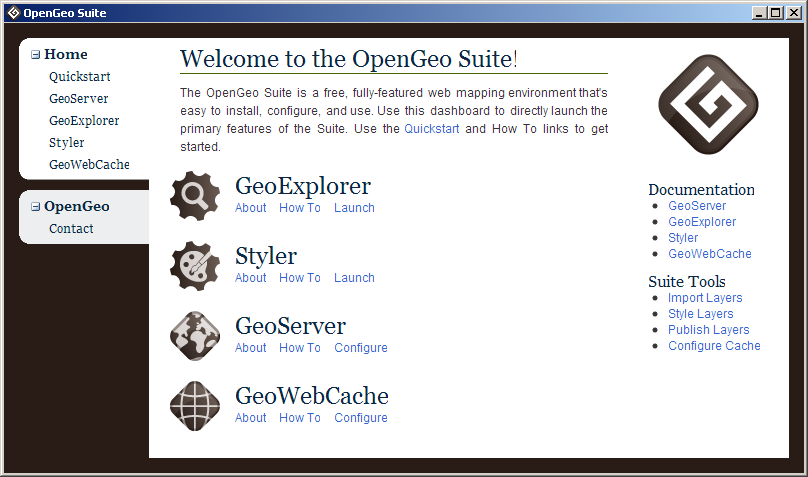
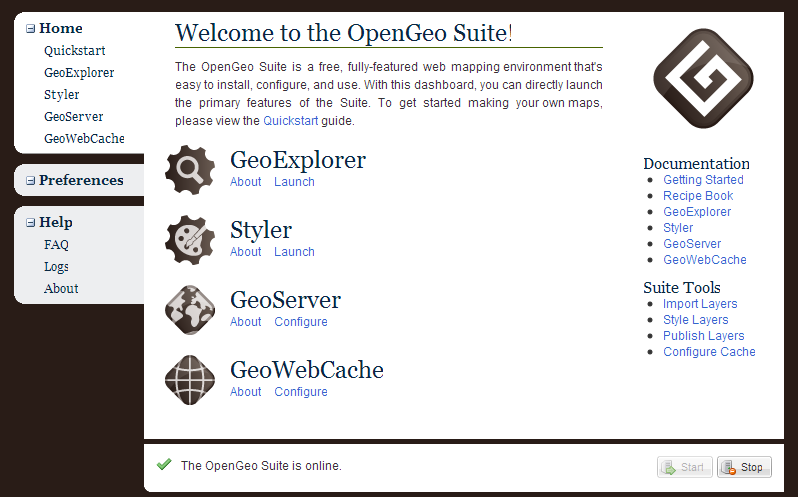
Update gettingstarted docs for 1.0!
git-svn-id: http://svn.opengeo.org/suite/trunk@795 fe66add1-021f-4af3-b75b-ea5154e73f91

diff --git a/docs/gettingstarted/source/workflow/import.rst b/docs/gettingstarted/source/workflow/import.rst
@@ -3,55 +3,82 @@
 Step 1: Import Your Data
 ========================
 
-The OpenGeo Suite comes with some data preloaded.  (See the section on :ref:`builtindemos` for more information.)  But to create *your* web map, you will need to first load your data into GeoServer.  GeoServer comes with a Data Importer application to make this process easy.
+The OpenGeo Suite comes with some data preloaded.  (See the section on :ref:`builtindemos` for more information.)  But to create *your* web map, you will need to first load your data into GeoServer.  GeoServer comes with a **Layer Importer** application to make this process easy.
+
+.. note:: The Layer Importer can import data from shapefiles, PostGIS databases, and ArcSDE/Oracle Spatial databases (with appropriate plugin files installed).  This example workflow uses shapefiles; some of the field names may be slightly different when importing from different sources.
 
 #. First, start the OpenGeo Suite if it is not already started.  You can do this by clicking on the :guilabel:`Start` button in the Dashboard.
 
 #. Open the GeoServer Layer Importer.  You can do this in the Dashboard by clicking :guilabel:`Import Layers`.
 
-
 #. Your browser will open.  Select the type of data you wish to import.
 
-#. You may be asked to log into GeoServer.  Enter the username and password you chose when installing the OpenGeo Suite.  (The default username and password is ``admin`` and ``geoserver``.)  Click :guilabel:`Login` when done.
+   .. note:: In order to enable ArcSDE and Oracle Spatial support in the Layer Importer, external files are required from your current database installation.  For ArcSDE, the files ``jsde*.jar`` and ``jpe*.jar`` are required.  For Oracle spatial, ``ojdbc*.jar`` is required.  Copy the file(s) into ``webapps/geoserver/WEB-INF/lib`` from the root of your installation, and then restart.  If successful, you will see extra options on this page.
+
+   .. figure:: img/adddatasource.png
+      :align: center
+
+      *Selecting a data source for import*
+
+#. You may be asked to log into GeoServer.  Enter your current username and password and click :guilabel:`Login`.  (The default username and password is ``admin`` and ``geoserver``.)
 
    .. figure:: img/login.png
       :align: center
 
       *Logging in to the GeoServer Admin interface*
 
-#. Enter the path to a directory that contains the shapefiles you wish to import.  You can also click :guilabel:`Browse...` to navigate to the folder.
+#. Fill out the information form.  :guilabel:`Workspace` is the name for a group of layers, and usually signifies a project name.  :guilabel:`Name` is the name of the group of layers you are importing (this can be the same as the workspace).  :guilabel:`Description` is a human-readable text field describing your data source.  Finally, :guilabel:`Directory` is the path to a directory that contains the data you wish to import.
+
 
    .. figure:: img/importerblank.png
       :align: center
 
-      *The Data Importer main page*
+      *The Layer Importer main information page*
+
+#. You may create a workspace name if you'd like.
+
+   .. warning:: The workspace name should not contain spaces.
+
+   .. figure:: img/workspacecreate.png
+      :align: center
+
+      *The Layer Importer main information page*
+
+#. You can also click :guilabel:`Browse...` to navigate to a directory.
 
    .. figure:: img/browse.png
       :align: center
 
       *Browsing for shapefiles on your local machine*
 
-#. When done, click :guilabel:`Import data`.
+#. When done, click :guilabel:`INext`.
 
    .. figure:: img/importerfilledin.png
       :align: center
 
       *The Layer Importer with project information entered*
 
+#. The Importer will return a list of all the layers found.  Uncheck any you don't wish to load and select :guilabel:`Import Data`.
+
+   .. figure:: img/selectresources.png
+      :align: center
+
+      *Selecting or unselecting the data to import*
+
 #. You will see a progress bar indicating that the shapefiles are being loaded into GeoServer.
 
    .. figure:: img/progressbar.png
       :align: center
 
-      *The Data Importer showing the progress of the import*
+      *Showing the progress of the import*
 
-#. When finished, a list of the shapefiles will be displayed, along with details and issues (if any).  Each shapefile will correspond to a layer.
+#. When finished, a list of layers will be displayed, along with details and issues (if any).
 
    .. figure:: img/results.png
       :align: center
 
       *The Layer Importer results page*
 
-#. If you would like to see a preview of how a layer looks, click the :guilabel:`Preview` button next to that layer.  If you would like to view a layer's configuration, click the Name of the layer.
+#. You may see a preview of how a layer looks in either OpenLayers, Google Earth, or Styler, by clicking the appropriate link in the :guilabel:`Preview` column  next to that layer.  If you would like to view a layer's configuration, click the :guilabel:`Name` of the layer.
 
-When finished you may close the browser.  Your data is now loaded into GeoServer.  If you wish to import more shapefiles from other directories, you may repeat this process.
+Your data is now loaded into GeoServer.  If you wish to import data from other sources, you may repeat this process.

diff --git a/docs/gettingstarted/source/workflow/style.rst b/docs/gettingstarted/source/workflow/style.rst
@@ -7,42 +7,35 @@ The Layer Importer will generate a distinct style for each layer.  To alter and 
 
 These example instructions will change the color of one of the default styles created during the import process.  If you would like to keep the default styles, you may skip to the next section, :ref:`composeyourmap`.
 
-.. note:: For more information on Styler, please see the Styler Documentation. You can access this by clicking the :guilabel:`Styler Documentation` link in the Dashboard.
+.. note:: For more information on Styler, please see the Styler Documentation. You can access this by clicking the :guilabel:`Styler Documentation` link in the :ref:`dashboard`.
 
-#. Launch Styler.  Styler can be launched from the :guilabel:`Style Layers` link in the Dashboard.
+#. Launch Styler.  Styler can be launched from the :guilabel:`Style Layers` link in the :ref:`dashboard`.
 
    .. figure:: img/styler.png
       :align: center
 
       *Styler*
 
-#. A list of all the loaded layers in GeoServer will be displayed in the :guilabel:`Layers` column.  Select the layer you would like to style by clicking the radio button next to the layer name.  While styling your layer, you can show or hide other layers for context by checking or unchecking the boxes next to the layers.
+#. A list of all the loaded layers will be displayed in the :guilabel:`Layers` column.  Select the layer you would like to style by clicking the radio button next to the layer name.
 
-   .. note:: Only one layer can be styled at a time.
+   .. note:: Only one layer can be styled at a time, although you can show or hide other layers for context by checking the boxes next to the layers.
 
    .. figure:: img/stylerselectlayer.png
       :align: center
 
       *Selecting a layer for styling*
 
-#. Click on a feature of the layer that you are styling.  A window will pop up showing current style information including attributes and metadata.
-
-   .. figure:: img/stylerfeatureinfo.png
-      :align: center
-
-      *Feature information for a selected feature*
-
-#. To change the style used for the layer, click on the rule in the pop up (under the heading :guilabel:`Rules used to render this feature`).
+#. The :guilabel:`Legend` panel displays the style rules associated with that layer.  Click on a rule to view and edit it.   An editor window is launched.  
 
    .. figure:: img/editstyle1.png
       :align: center
 
       *The style edit window*
 
-#. A style editor window is launched.  Change the style as you see fit, selecting from symbol, size, color, opacity, and many other options.
+#. Change the style as you see fit, selecting from symbol, size, color, opacity, external graphics, filters, and many other options.
 
-   .. note:: Please see the Styler Documentation for details on what can be styled using Styler.
- 
+   .. note:: Please see the Styler Documentation for more about what can be styled using Styler. 
+
    .. figure:: img/editstyle2.png
       :align: center
 
@@ -57,4 +50,4 @@ These example instructions will change the color of one of the default styles cr
 
 #. Repeat this process for every layer that you wish to style.
 
-   .. warning:: Any changes made through Styler will be immediately saved in GeoServer and will persist.
+   .. warning:: Any changes made through Styler will be immediately saved and will persist.

diff --git a/docs/gettingstarted/source/dashboard.rst b/docs/gettingstarted/source/dashboard.rst
@@ -17,7 +17,7 @@ The Dashboard can start and stop the OpenGeo Suite service.  Simply click on the
 
 .. note:: Some links in the Dashboard will be disabled when the OpenGeo Suite is offline.
 
-.. figure:: img/start.png
+.. figure:: img/offline.png
    :align: center
 
    *Click to Start the OpenGeo Suite*
@@ -32,10 +32,10 @@ The Dashboard can start and stop the OpenGeo Suite service.  Simply click on the
 
    *The OpenGeo Suite service is now online.*
 
-.. note:: You can also start and stop the OpenGeo Suite from the commpand prompt.  Navigate to the root of your installation directory and run::
+.. note:: You can also start and stop the OpenGeo Suite from the command prompt.  Navigate to the root of your installation directory and run::
 
-     opengeo-suite start
-     opengeo-suite stop
+      > opengeo-suite start
+      > opengeo-suite stop
 
 
 Preferences
@@ -48,14 +48,14 @@ You can administer the OpenGeo Suite through the Preferences page.
 .. figure:: img/preferences.png
    :align: center
 
-   *Preferences*
+   *The Preferences page*
 
 Service Ports
 ~~~~~~~~~~~~~
 
 The OpenGeo Suite runs a web server on your host machine that reponds on a specific port (the default is **8080**).  You can change this by going to the Preferences page and changing the :guilabel:`Port` value.  Click :guilabel:`Save` when done.  Restart the OpenGeo Suite for the change to take effect.
 
-You can also change the Shutdown Port in a similar way.
+  .. note:: You can also change the Shutdown Port in a similar way.
 
 GeoServer Data Directory
 ~~~~~~~~~~~~~~~~~~~~~~~~
@@ -65,4 +65,4 @@ GeoServer's data and configuration is stored in what is known as the data direct
 GeoServer Administration
 ~~~~~~~~~~~~~~~~~~~~~~~~
 
-Most GeoServer administrative tasks require authentication.  The default username and password for the GeoServer that is containe din the OpenGeo Suite is ``admin`` / ``geoserver``.  To change these credentails, enter new values in the :guilabel:`Username` and :guilabel:`Password` fields.  You will need to type the password in again in the :guilabel:`Confirm` field.  Click :guilabel:`Save` when done.  Restart the OpenGeo Suite for the change to take effect.
+Most GeoServer administrative tasks require authentication.  The default username and password for the GeoServer that is contained in the OpenGeo Suite is ``admin`` / ``geoserver``.  To change these credentials, enter new values in the :guilabel:`Username` and :guilabel:`Password` fields.  You will need to type the password in again in the :guilabel:`Confirm` field.  Click :guilabel:`Save` when done.  Restart the OpenGeo Suite for the change to take effect.

diff --git a/docs/gettingstarted/source/moreinfo.rst b/docs/gettingstarted/source/moreinfo.rst
@@ -10,17 +10,17 @@ GeoServer
 
 **Homepage:**  For the latest in GeoServer development, see `<http://geoserver.org>`_.  
 
-**Documentation:** Links to the documentation are available in the Dashboard or by navigating to :menuselection:`Start Menu --> Programs --> OpenGeo Suite --> Documentation --> GeoServer Documentation`
+**Documentation:** Links to GeoServer documentation are available in the :ref:`dashboard`.
 
 GeoExplorer and Styler
 ----------------------
 
 **Homepage:** GeoExplorer and Styler are applications built using GeoExt. For more information visit `http://geoext.org <http://geoext.org>`_.
 
-**Documentation:** Links to the documentation are available in the Dashboard or by navigating to :menuselection:`Start Menu --> Programs --> OpenGeo Suite --> Documentation`.
+**Documentation:** Links to GeoExplorer and Styler documentation are available in the :ref:`dashboard`.
 
 OpenGeo
 -------
 
-`OpenGeo <http://opengeo.org>`_, a social enterprise, provides support and services around GeoServer, OpenLayers, PostGIS, GeoWebCache, and GeoExt.  OpenGeo is the geospatial division of `The Open Planning Project <http://openplans.org>`_, a 503(c)(3) organization. For more information, visit us online at `http://opengeo.org <http://opengeo.org>`_ or email us at `inquiry@opengeo.org <mailto:inquiry@opengeo.org>`_.
+`OpenGeo <http://opengeo.org>`_, a social enterprise, provides support and services around GeoServer, OpenLayers, PostGIS, GeoWebCache, and GeoExt.  OpenGeo is the geospatial division of `The Open Planning Project <http://openplans.org>`_, a 503(c)(3) organization. For more information, visit us online at `http://opengeo.org <http://opengeo.org>`_ or email us at inquiry@opengeo.org .
   

diff --git a/docs/gettingstarted/source/workflow/compose.rst b/docs/gettingstarted/source/workflow/compose.rst
@@ -5,7 +5,7 @@ Step 3: Compose Your Map
 
 Now that the data is imported and styled, you can organize and compose your layers into a map.  **GeoExplorer** allows you to create web maps based on layers served through GeoServer.
 
-#. Run GeoExplorer.  You can do this by selecting :guilabel:`GeoExplorer` in the Dashboard.
+#. Run GeoExplorer.  You can do this by selecting :guilabel:`GeoExplorer` in the :ref:`dashboard`.
 
    .. figure:: img/geoexplorer.png
       :align: center
@@ -50,5 +50,5 @@ Now that the data is imported and styled, you can organize and compose your laye
 
       *The composed map*
 
-   .. note:: For more information on GeoExplorer, please see the GeoExplorer Documentation by selecting :guilabel:`GeoExplorer Documentation` in the Dashboard.
+   .. note:: For more information on GeoExplorer, please see the GeoExplorer Documentation by selecting :guilabel:`GeoExplorer Documentation` in the :ref:`dashboard`.
 

diff --git a/docs/gettingstarted/source/recipes.rst b/docs/gettingstarted/source/recipes.rst
@@ -3,4 +3,21 @@
 Recipe Book
 ===========
 
-The OpenGeo Suite includes an application called the `Recipe Book <../recipes>`_, which contains code examples (or "recipes") for building applications using the OpenGeo Suite.
+The OpenGeo Suite includes an application called the **Recipe Book**, which contains code examples (or "recipes") for building applications using the OpenGeo Suite.  The Recipe Book can be launched from teh :ref:`dashboard`.
+
+.. figure:: img/recipebook.png
+   :align: center
+
+   *The OpenGeo Recipe Book*
+
+Each recipe contains a map, the code required to build the map, and links to relevant API documentation.
+
+.. figure:: img/mappaneldemo.png
+   :align: center
+
+   *A demo showing a map layer in a GeoExt MapPanel*
+
+.. figure:: img/mappanelcode.png
+   :align: center
+
+   *The source code required to generate the GeoExt MapPanel*

diff --git a/docs/gettingstarted/source/index.rst b/docs/gettingstarted/source/index.rst
@@ -5,8 +5,6 @@ Welcome to the OpenGeo Suite!  The OpenGeo Suite allows you to style, compose, a
 
 This **Getting Started** guide will guide you through the basic functionality of the OpenGeo Suite.  Further information is available in the other documentation included with this software.
 
-Now let's make a map!
-
 .. toctree::
    :maxdepth: 2
 
